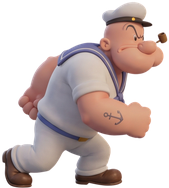
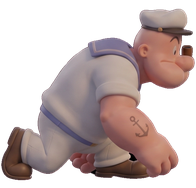
v0.39: yeni eğilme yürüyüşü, zıplama/iniş pozları, zıplamada bağırma yok
Claude-Session: https://claude.ai/code/session_017R1wDYYCQ6S6TWsgKDqrv7

diff --git a/www/js/game.js b/www/js/game.js
@@ -51,7 +51,8 @@ const SPRITELAR = [
   ...[0, 1, 2, 3, 4, 5].map((i) => "reis_walk" + i),
   "reis_pump0", "reis_pump1", "reis_dus", "btn_tamekran", "kaya", "ball", "saw", "spike_up", "spike_dn",
   "pervane_kapali", "pervane_acik", // taş heykel üfleyici (ağzı kapalı / açık)
-  ...[0, 1, 2, 3].map((i) => "reis_egil" + i), "btn_egil", "btn_kalk",
+  ...[0, 1, 2, 3, 4].map((i) => "reis_egil" + i), "btn_egil", "btn_kalk",
+  "reis_zipla", "reis_zipla_in", // zıplarken yükselme ve iniş pozları
   ...[0, 1, 2, 3].map((i) => "bird_walk" + i),
   ...[0, 1, 2, 3].map((i) => "bird_pump" + i), "bird_pop0",
   ...[0, 1, 2, 3, 4, 5].map((i) => "reis_idle" + i),
@@ -82,7 +83,7 @@ const KARELER = {
   crab_walk: [0, 1, 2, 3, 4].map((i) => "crab_walk" + i),
   octo_walk: [0, 1, 2].map((i) => "octo_walk" + i),
   bird_walk: [0, 1, 2, 3].map((i) => "bird_walk" + i),
-  reis_egil: [0, 1, 2, 3].map((i) => "reis_egil" + i)
+  reis_egil: [0, 1, 2, 3, 4].map((i) => "reis_egil" + i)
 };
 
 const DUSMAN_TIP = {
@@ -1446,16 +1447,18 @@ class Oyun extends Phaser.Scene {
       this.yercekimi(r, dt);
     }
 
-    // Düşme sesi: havadayken çalar, yere değince biter; iniş sesi çalar  (rüzgar bunun ardından uygulanır)
+    // Düşme sesi (bağırma): sadece yürürken bir yerden düşünce çalar. Zıplamanın inişinde bağırmaz;
+    // çünkü zıplama oyuncunun isteğiyle yapılan bir hareket, düşme ise kazara. Yere değince biter,
+    // iniş sesi çalar. (rüzgar bunun ardından uygulanır)
     if (!r.yerde) {
       if (r.zipliyor) r.ziplaGecen = (r.ziplaGecen || 0) + (r.vy < 0 ? 0 : dt);
-      if (!r.zipliyor || r.vy > 500) r.havada = (r.havada || 0) + dt;
+      else r.havada = (r.havada || 0) + dt;
       if (r.havada > 0.12 && !this.dusmeSes && this.cache.audio.exists("ses_dusme")) {
         try { this.dusmeSes = this.sound.add("ses_dusme", { volume: 0.6 }); this.dusmeSes.play(); } catch (e) { this.dusmeSes = null; }
       }
     } else {
       if ((r.havada || 0) > 0.12) { this.dusmeSesiDurdur(); this.ses("ses_dustu", { volume: 0.8 }); }
-      else if (r.zipliyor && r.ziplaGecen > 0.1) this.ses("ses_dustu", { volume: 0.5 });
+      else if (r.zipliyor && r.ziplaGecen > 0.1) this.ses("ses_dustu", { volume: r.ziplaGecen > 0.6 ? 0.8 : 0.5 }); // zıplayıp derine inerse daha tok iniş
       r.havada = 0; r.zipliyor = false;
     }
 
@@ -1478,7 +1481,7 @@ class Oyun extends Phaser.Scene {
       r.kare += dt * 10;
       const adimNo = Math.floor(r.kare / 2);
       if (adimNo !== r.sonAdim) { r.sonAdim = adimNo; this.ses("ses_adim" + Phaser.Math.Between(1, 3), { volume: 0.5 }); }
-      tex = this.kareler.reis_egil[Math.floor(r.kare) % 4];
+      tex = this.kareler.reis_egil[Math.floor(r.kare) % this.kareler.reis_egil.length];
       r.idleSure = 0; r.blinkAsama = 0; r.blinkZaman = undefined;
     } else if (yon !== 0 && r.pompa <= 0 && r.yerde) {
       r.yon = yon;
@@ -1545,8 +1548,11 @@ class Oyun extends Phaser.Scene {
     } else {
       tex = "reis_walk0";
     }
+    // Havada iki ayrı durum: zıplama (yükselirken zıplama pozu, inerken iniş pozu) ve kazara düşme
+    // (eski bağıran düşme pozu). İniş pozuna tepe noktasından biraz önce geçilir, hareket akıcı görünsün.
     const havada = !r.yerde;
-    if (havada) tex = "reis_dus";
+    const ziplamaPozu = havada && r.zipliyor;
+    if (havada) tex = ziplamaPozu ? (r.vy < -120 ? "reis_zipla" : "reis_zipla_in") : "reis_dus";
     if (r.yerde) { r.sonGuvenliX = r.x; r.sonGuvenliY = r.y; }
 
     if (this.dokunulmaz > 0) { this.dokunulmaz -= dt; r.spr.setAlpha(Math.floor(zaman / 100) % 2 ? 0.4 : 1); }
@@ -1555,8 +1561,8 @@ class Oyun extends Phaser.Scene {
     // Basamak inip çıkarken görsel yükseklik yumuşak geçer (6 px'lik sıçrama görünmez)
     if (havada || r.gorselY === undefined || Math.abs(r.y - r.gorselY) > 3 * C) r.gorselY = r.y;
     else r.gorselY += (r.y - r.gorselY) * Math.min(1, dt * 18);
-    if (havada) r.spr.setOrigin(0.5, 0.5).setTexture(tex).setFlipX(r.yon > 0).setScale(REIS_OLCEK * 0.8).setPosition(r.x, r.y - 58);
-    else r.spr.setOrigin(0.5, 1).setTexture(tex).setFlipX(r.yon < 0).setScale(tex.startsWith("reis_egil") ? REIS_OLCEK * EGIK_OLCEK : REIS_OLCEK).setPosition(r.x, r.gorselY);
+    if (havada && !ziplamaPozu) r.spr.setOrigin(0.5, 0.5).setTexture(tex).setFlipX(r.yon > 0).setScale(REIS_OLCEK * 0.8).setPosition(r.x, r.y - 58);
+    else r.spr.setOrigin(0.5, 1).setTexture(tex).setFlipX(r.yon < 0).setScale(tex.startsWith("reis_egil") ? REIS_OLCEK * EGIK_OLCEK : REIS_OLCEK).setPosition(r.x, havada ? r.y : r.gorselY);
 
     // Pompa hortumu: pompanın alt ucundan çıkar, yerde kıvrılarak düşmana gider
     const h = this.pompaHedef;

diff --git a/www/js/config.js b/www/js/config.js
@@ -1,7 +1,7 @@
 // Oyunun tüm ayarları burada. AdMob ID'lerini buraya yaz.
 window.OYUN_CONFIG = {
   oyunAdi: "DigPopeyeDug",
-  surum: "v0.38", // sağ altta görünür
+  surum: "v0.39", // sağ altta görünür
   paketAdi: "com.jawk.digpopeyedug", // Play Store'a yüklendikten sonra DEĞİŞTİRİLEMEZ
 
   reklam: {

diff --git a/NOTLAR.md b/NOTLAR.md
@@ -2,6 +2,12 @@
 
 ## Bekleyenler
 
+## v0.39 — Yeni Eğilme ve Zıplama Pozları
+- Eğik yürüyüş yeni 5 karelik animasyonla değiştirildi (reis_egil0-4).
+- Zıplarken yükselme pozu (reis_zipla) ve inerken iniş pozu (reis_zipla_in) eklendi.
+- Zıplamanın inişinde artık bağırma (ses_dusme) yok; derine zıplayıp inerse iniş sesi daha tok.
+- Yürürken bir yerden düşerse eskisi gibi bağırarak düşer ve eski düşme pozu (reis_dus) kullanılır.
+
 ## v0.38 — Bölüm Seçme Ekranı Görselleri
 - Çapalı ahşap pano (panel_bolumler) ve yuvarlak ipli tahta bölüm butonu (btn_bolum_daire) gerçek görsellerle değiştirildi; panonun en/boy oranı korunuyor.
 - Başlık, kapatma, ızgara ve oklar panonun iç parşömen alanına göre yeniden yerleştirildi.
